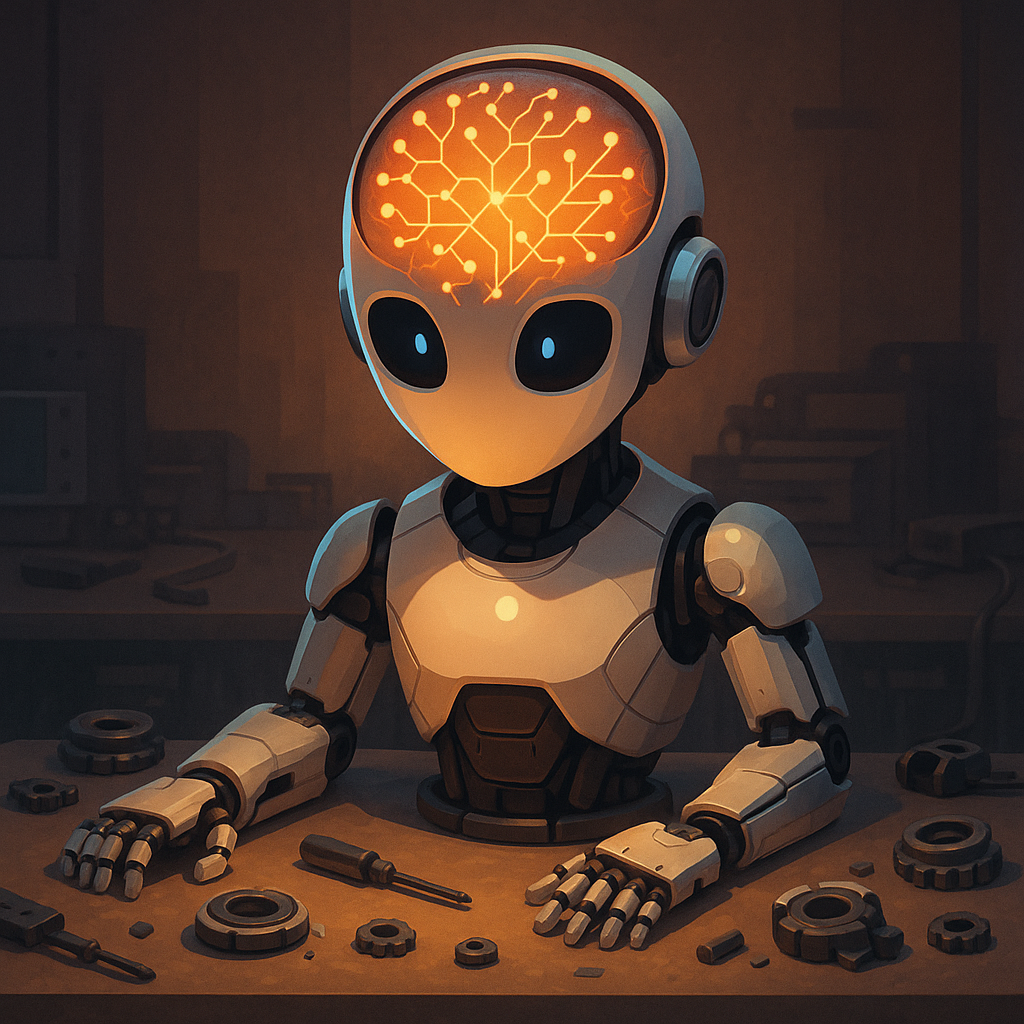
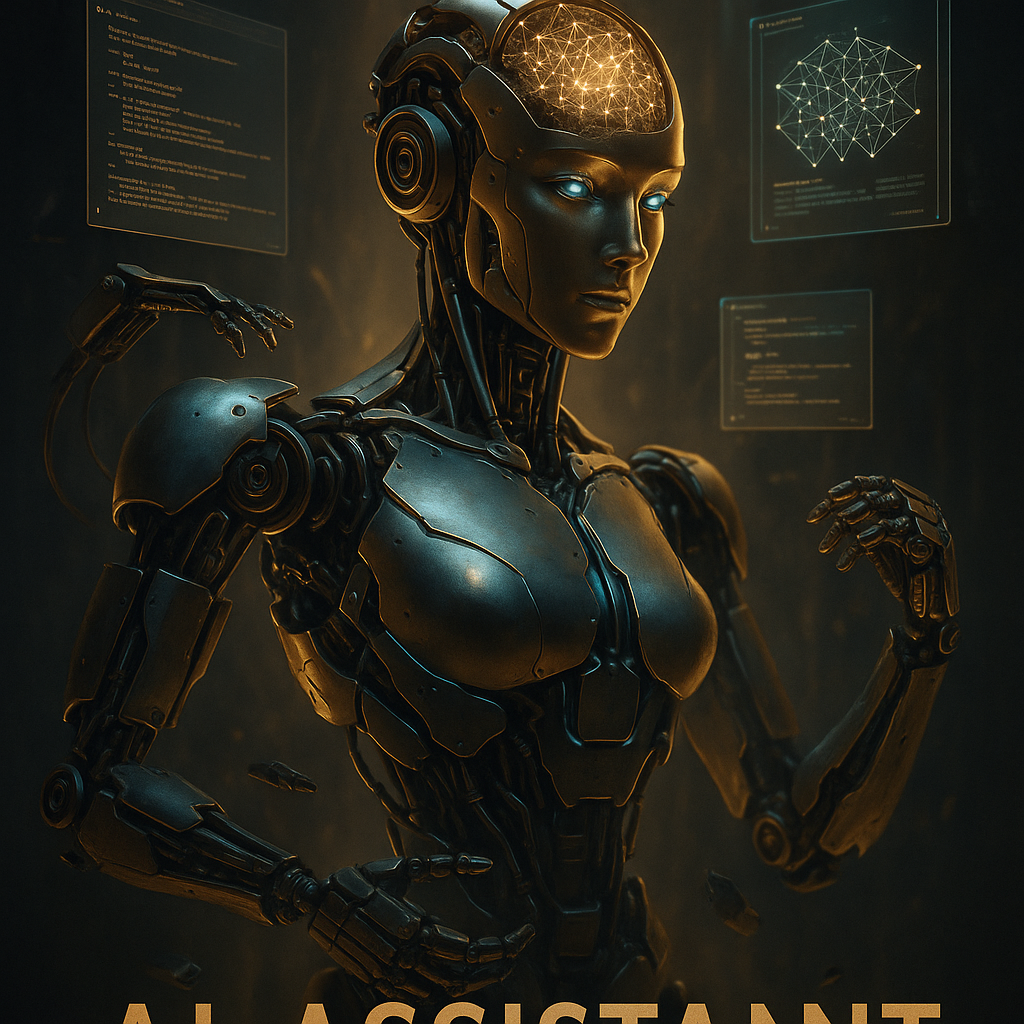
docs(config): add 3 images to first article
- Replace cover.png with premium cinematic poster
- Add architecture.png: Provider → Model → Channel relationship diagram
- Add roadmap.png: 13-step learning journey visualization
- Update article to reference new images

diff --git a/docs/config/1/OpenClaw搭建与配置系列预告.md b/docs/config/1/OpenClaw搭建与配置系列预告.md
@@ -8,6 +8,8 @@
 
 我刚开始接触 OpenClaw 的时候也是这样。花了整整 **3 天** 才搞明白 Provider、Model、Channel 这三个概念到底啥关系—— Provider 是「大脑供应商」（比如 OpenAI、Kimi、Gemini），Model 是「具体型号」（比如 GPT-4、Kimi-K2.5），Channel 是「嘴巴」（飞书、Telegram、微信）……理顺之前，它们在我脑子里就是一团浆糊。
 
+![架构图：Provider → Model → Channel 关系示意](./architecture.png)
+
 **这个系列，我想把这半个月踩过的坑、理顺的逻辑，一次性讲清楚。**
 
 ## 这个系列能给你什么？
@@ -33,6 +35,8 @@
 | 11/13 | **第10课：给它一双手** | 浏览器工具配置，能自动操作网页 |
 | 12/13 | **第11课：告别"金鱼记忆"** | 记忆系统配置，能记住你的喜好和历史对话 |
 | 13/13 | **第12课：想找回半年前的对话？** | 全文搜索配置，能找回历史对话和记忆 |
+
+![13步学习路线图](./roadmap.png)
 
 **进度提示：你正在看 1/13，是整趟旅程的起点。**
 
